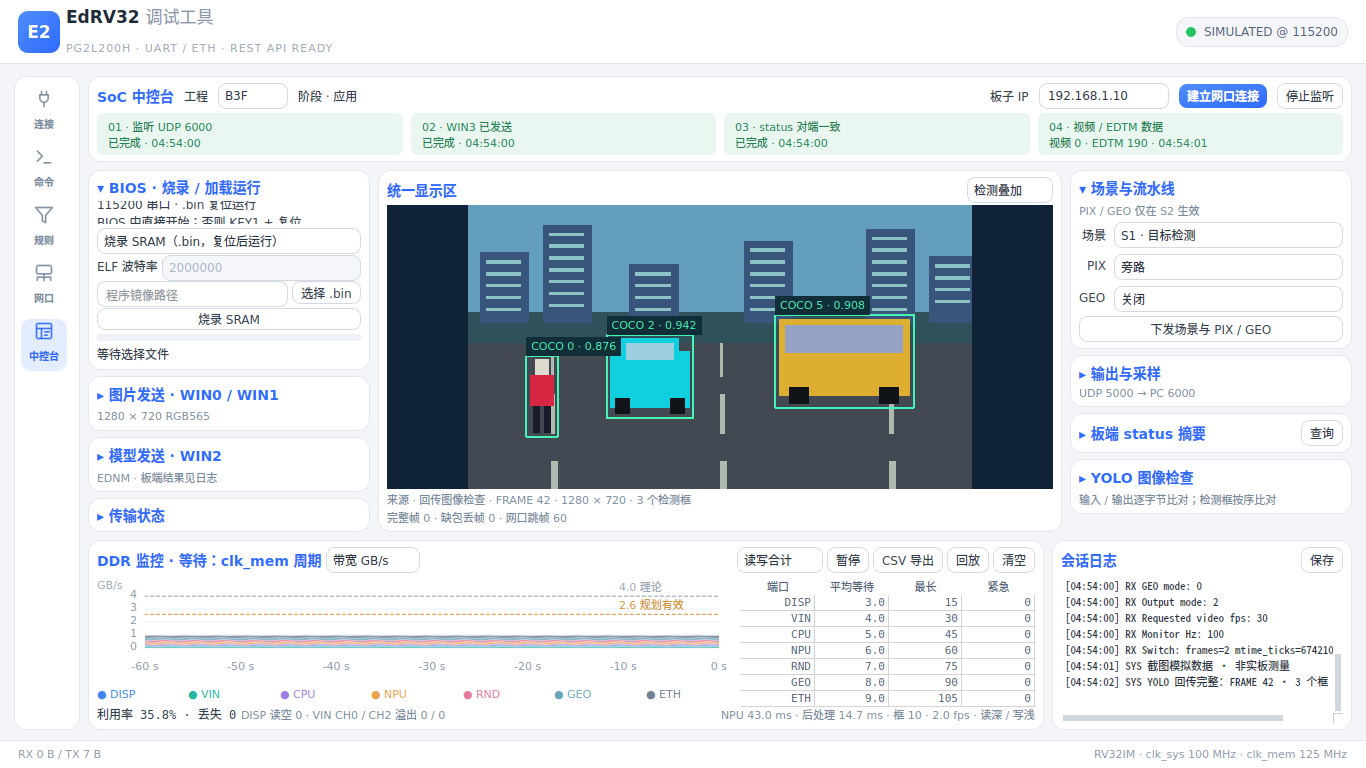
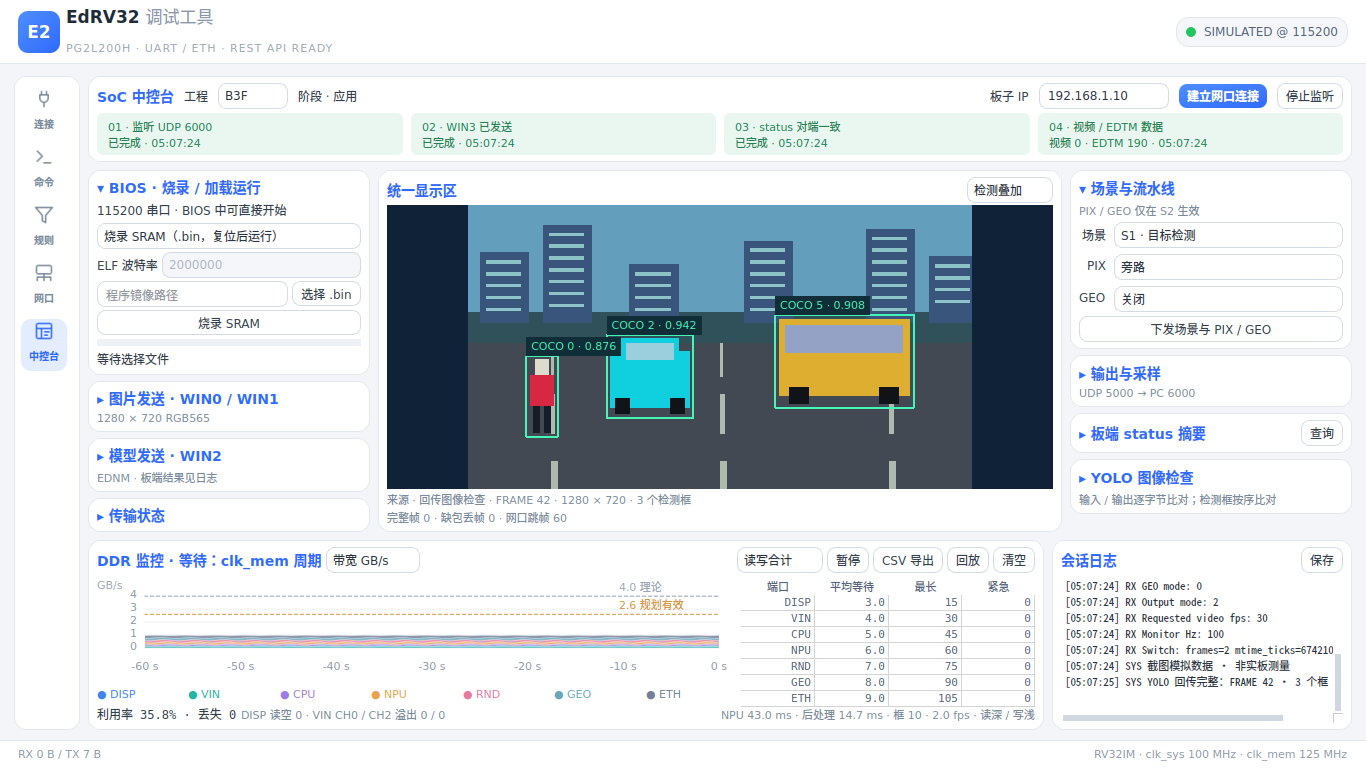
debug_tool: preserve sidebar label heights when groups expand
Fix B3-14c by shortening BIOS instructions to a nonshrinking single line with the complete instructions in a tooltip. Recompute sidebar geometry after expansion and keep bounded capability notes on one line.

Extend the layout regression to compare every visible label against its rendered font height across both sidebars, and regenerate six console screenshots. Inspect all eight expanded groups separately at 1366x768 under build/debug_tool/b3-14c-groups; verify 65 debug-tool and 7 board tests without skips.

diff --git a/tools/debug_tool/gui/soc_console.py b/tools/debug_tool/gui/soc_console.py
@@ -162,6 +162,10 @@ class Sidebar(QWidget):
             body.setVisible(expanded)
             button.setEnabled(self.compact)
             button.setText((('▾ ' if expanded else '▸ ') if self.compact else '') + caption)
+            frame.updateGeometry()
+        # Expanded groups need their current content hints before the next paint.
+        self.column.invalidate()
+        self.column.activate()
 
 
 class SocConsole(QWidget):
@@ -294,6 +298,7 @@ class SocConsole(QWidget):
         send_row.addWidget(self.send_image)
         box.addLayout(send_row)
         self.image_note = label('', 'note')
+        self.image_note.setWordWrap(False)
         box.insertWidget(1, self.image_note)
         layout.addWidget(self.image_card)
         self.model_card, box = card('模型发送 · WIN2')
@@ -306,6 +311,7 @@ class SocConsole(QWidget):
         self.send_model = self.button('发送描述符与模型', self._send_model)
         box.addWidget(self.send_model)
         self.model_note = label('', 'note')
+        self.model_note.setWordWrap(False)
         box.insertWidget(1, self.model_note)
         layout.addWidget(self.model_card)
         frame, box = card('传输状态')
@@ -358,6 +364,7 @@ class SocConsole(QWidget):
         self.apply_scene = self.button('下发场景与 PIX / GEO', self._apply_scene)
         box.addWidget(self.apply_scene)
         self.scene_note = label('', 'note')
+        self.scene_note.setWordWrap(False)
         box.addWidget(self.scene_note)
         layout.addWidget(self.scene_card)
         self.output_card, box = card('输出与采样')
@@ -381,6 +388,7 @@ class SocConsole(QWidget):
         self.apply_output = self.button('下发输出与采样', self._apply_output)
         box.addWidget(self.apply_output)
         self.output_note = label('', 'note')
+        self.output_note.setWordWrap(False)
         box.addWidget(self.output_note)
         layout.addWidget(self.output_card)
         self.status_card, box = card('板端 status 摘要')
@@ -424,6 +432,7 @@ class SocConsole(QWidget):
         self.comparison_result = label('选择原图、模型与量化参数', 'note')
         box.addWidget(self.comparison_result)
         self.check_note = label('', 'note')
+        self.check_note.setWordWrap(False)
         box.addWidget(self.check_note)
         layout.addWidget(self.check_card)
 

diff --git a/tools/debug_tool/tests/test_session.py b/tools/debug_tool/tests/test_session.py
@@ -192,6 +192,19 @@ class ConsoleLayoutTest(unittest.TestCase):
         from PySide6.QtWidgets import QApplication
         cls.app = QApplication.instance() or QApplication([])
 
+    def assert_label_heights(self, frame, context):
+        from PySide6.QtCore import Qt, QRect
+        from PySide6.QtWidgets import QLabel
+        for text in frame.findChildren(QLabel):
+            if not text.isVisible() or not text.text():
+                continue
+            flags = Qt.TextWordWrap if text.wordWrap() else Qt.TextFlag(0)
+            needed = text.fontMetrics().boundingRect(
+                QRect(0, 0, text.width(), 10000), flags, text.text()).height()
+            self.assertGreaterEqual(
+                text.height(), needed,
+                f'{context}: {text.text()!r} needs {needed} px, got {text.height()} px')
+
     def test_two_window_sizes_and_capabilities(self):
         from PySide6.QtGui import QIcon
         from PySide6.QtWidgets import QLabel, QLineEdit, QPlainTextEdit
@@ -244,6 +257,11 @@ class ConsoleLayoutTest(unittest.TestCase):
                     for active in range(len(sidebar.groups)) if sidebar.compact else [0]:
                         sidebar.activate(active)
                         self.app.processEvents()
+                        # Both columns must remain readable when either column changes groups.
+                        for checked in (console.left_sidebar, console.right_sidebar):
+                            for frame, _, _, caption in checked.groups:
+                                self.assert_label_heights(
+                                    frame, f'{width}×{height} {name} {caption}')
                         for index, (frame, button, body, _) in enumerate(sidebar.groups):
                             self.assertGreaterEqual(frame.y(), 0)
                             self.assertLess(frame.geometry().bottom(), sidebar.height())

diff --git a/tools/debug_tool/gui/program.py b/tools/debug_tool/gui/program.py
@@ -3,7 +3,7 @@
 from PySide6.QtCore import Qt
 from PySide6.QtWidgets import (
     QComboBox, QFileDialog, QFormLayout, QFrame, QHBoxLayout, QLabel, QLineEdit,
-    QProgressBar, QPushButton, QVBoxLayout,
+    QProgressBar, QPushButton, QSizePolicy, QVBoxLayout,
 )
 
 
@@ -19,9 +19,11 @@ class ProgramPanel(QFrame):
         title = QLabel("BIOS · 烧录 / 加载运行")
         title.setObjectName("cardTitle")
         layout.addWidget(title)
-        hint = QLabel("115200 串口 · .bin 复位运行\n"
-                      "BIOS 中直接开始；否则 KEY1 + 复位")
-        hint.setWordWrap(True)
+        hint = QLabel("115200 串口 · BIOS 中可直接开始")
+        hint.setWordWrap(False)
+        hint.setSizePolicy(QSizePolicy.Preferred, QSizePolicy.Minimum)
+        hint.setToolTip(".bin 烧录成功后复位运行；ELF 加载后立即运行。\n"
+                        "已在 BIOS 时直接开始；否则按住 KEY1 并复位。")
         layout.addWidget(hint)
         self.mode = QComboBox()
         self.mode.addItem("烧录 SRAM（.bin，复位后运行）", False)
